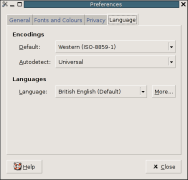
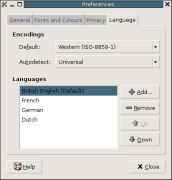
Updated screenshots updated updated new file new file added new image
2003-12-30  Stefan Rotsch  <linux@stefanrotsch.de>

  * screenshots.html: Updated screenshots
  * images/1.1.0-preferences-language.png: updated
  * images/1.1.0-preferences-language-180.png: updated
  * images/1.1.0-preferences-language-add.png: new file
  * images/1.1.0-preferences-language-add-180.png: new file
  * images/Makefile.am: added new image files

diff --git a/www.gnome.org/projects/epiphany/screenshots.html b/www.gnome.org/projects/epiphany/screenshots.html
@@ -72,28 +72,34 @@
 	</div>
 <div id="gallery">
 	<div class='image'>
-		<a href='images/1.1.0-preferences-fonts-and-colours.png'>
-			<img src='images/1.1.0-preferences-fonts-and-colours-180.png' width="180" height="188" border='0' alt="Preferences: Fonts and Colours" />
-		</a>
-		<p>Preferences: Fonts and Colours</p>
-	</div>
-	<div class='image'>
 		<a href='images/1.1.0-preferences-general.png'>
 			<img src='images/1.1.0-preferences-general-180.png' width="180" height="188" border='0' alt="Preferences: General" />
 		</a>
 		<p>Preferences: General</p>
 	</div>
 	<div class='image'>
-		<a href='images/1.1.0-preferences-language.png'>
-			<img src='images/1.1.0-preferences-language-180.png' width="180" height="188" border='0' alt="Preferences: Language" />
+		<a href='images/1.1.0-preferences-fonts-and-colours.png'>
+			<img src='images/1.1.0-preferences-fonts-and-colours-180.png' width="180" height="188" border='0' alt="Preferences: Fonts and Colours" />
 		</a>
-		<p>Preferences: Language</p>
+		<p>Preferences: Fonts and Colours</p>
 	</div>
 	<div class='image'>
 		<a href='images/1.1.0-preferences-privacy.png'>
 			<img src='images/1.1.0-preferences-privacy-180.png' width="180" height="188" border='0' alt="Preferences: Privacy" />
 		</a>
 		<p>Preferences: Privacy</p>
+	</div>
+	<div class='image'>
+		<a href='images/1.1.0-preferences-language.png'>
+			<img src='images/1.1.0-preferences-language-180.png' width="172" height="188" border='0' alt="Preferences: Language" />
+		</a>
+		<p>Preferences: Language</p>
+	</div>
+	<div class='image'>
+		<a href='images/1.1.0-preferences-language-add.png'>
+			<img src='images/1.1.0-preferences-language-add-180.png' width="180" height="180" border='0' alt="Preferences: Add Language" />
+		</a>
+		<p>Preferences: Add Language</p>
 	</div>
 	<div class='image'>
 		<a href='images/1.1.0-print.png'>
@@ -162,7 +168,7 @@
 	</div>
 
     <div id="copyright">
-	  Last modified 2003/12/08 14:00:00<br />
+	  Last modified 2003/12/30 21:29:00<br />
       <a href="http://validator.w3.org/check/referer">Optimised</a>
       for <a href="http://www.w3.org/">standards</a>.
     </div>
